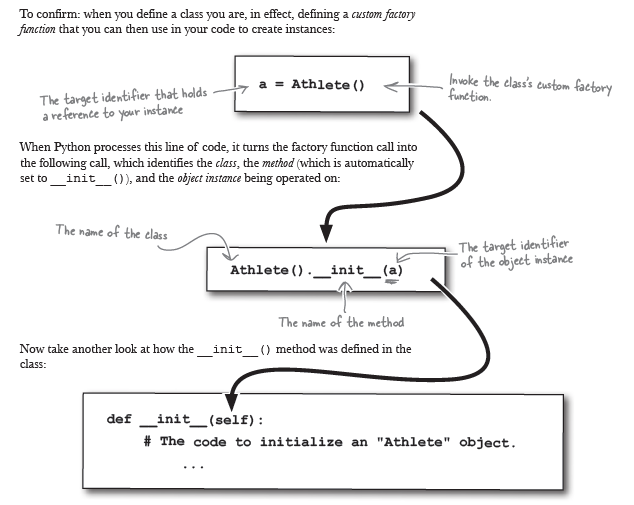
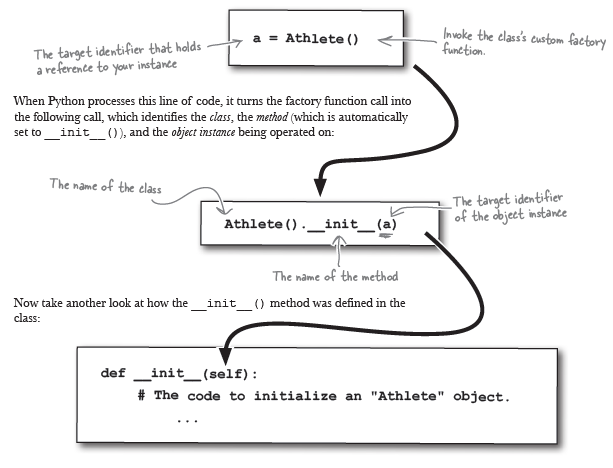
Python update

Changed region(s): [[0.031, 0.0, 0.9918, 0.9872], [0.3409, 0.6282, 0.3719, 0.6581]]

diff --git a/docs/articles/python.md b/docs/articles/python.md
@@ -1145,6 +1145,8 @@ The larger story of classes is that their inheritance mechanism supports softwar
 
 ### The importance of <u>self</u>  
 
+To confirm: when you define a class you are, in effect, defining a *custom factory function* that you can then use in your code to create instances:  
+
 ![so](../assets/pics/python_self.png)  
 
 &nbsp;
@@ -1157,7 +1159,7 @@ Check out what Python turns your object creation invocation into.
 
 > Every method’s first argument is *self*.  
 
-In fact, not only does the __init__() method require *self* as its first argument, but *so does every other method defined within your class.*
+In fact, not only does the \_\_init\_\_() method require *self* as its first argument, but *so does every other method defined within your class.*
 
 Python arranges for the first argument of every method to be the invoking (or *calling*) object instance. Let’s extend the sample class to store a value in a object attribute called thing with the value set during initialization. Another method, called *how_big()*, returns the length of *thing* due to the use of the *len()* BIF:  
 ![so](../assets/pics/python_self_02.png)  
